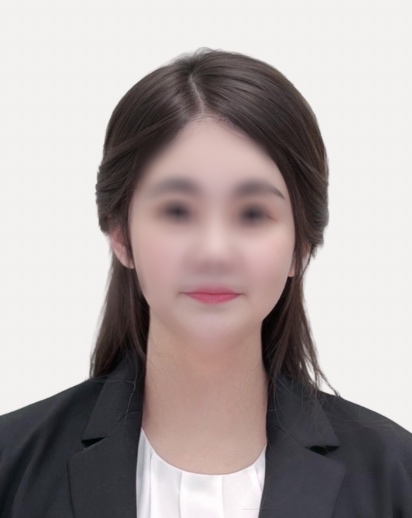
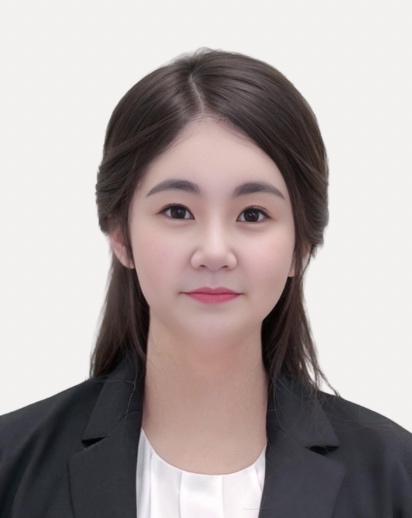
feat: restore crystal clear original instructor portrait without blur

diff --git a/index.html b/index.html
@@ -351,7 +351,7 @@
           <!-- Left Column: Portrait & Stats -->
           <div class="instructor-visual-col">
             <div class="instructor-portrait-box">
-              <img src="images/instructor-real.jpg" alt="AI & AX 전문 강사 박은희 프로필 사진" class="instructor-portrait-img">
+              <img src="images/instructor-real.jpg?v=clear" alt="AI & AX 전문 강사 박은희 프로필 사진" class="instructor-portrait-img">
               <div class="instructor-badge-overlay">
                 <span class="inst-role-badge">AI & AX 수석 강사</span>
                 <span class="inst-name">박은희</span>
